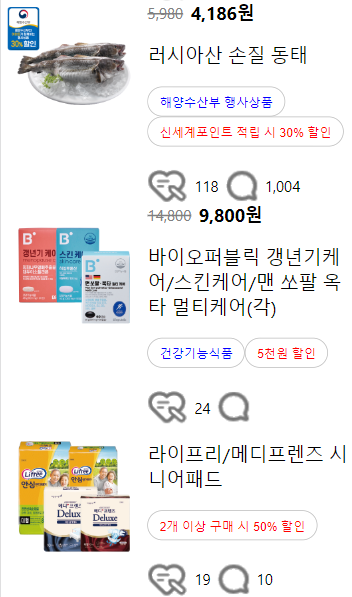
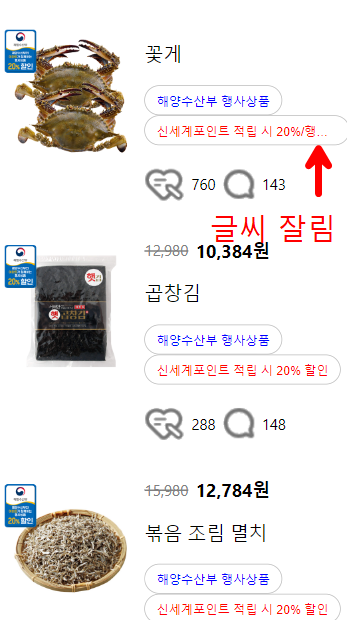
style: Add bottom margin & no wrap

diff --git a/src/components/ItemList/Item/index.tsx b/src/components/ItemList/Item/index.tsx
@@ -5,7 +5,7 @@ export default function Item({ item }: { item: ItemType }) {
   return (
     <article>
       {item && (
-        <Grid container>
+        <Grid container marginBottom={5}>
           <Grid item xs={5} alignContent="center">
             <img
               src={item.itemImage}
@@ -18,7 +18,7 @@ export default function Item({ item }: { item: ItemType }) {
             ></img>
           </Grid>
 
-          <Grid item xs>
+          <Grid item xs={7}>
             {/* 가격 */}
             <Stack direction="row" alignItems="center" spacing={1}>
               <del style={{ color: 'grey' }}>{item.priceOriginal}</del>
